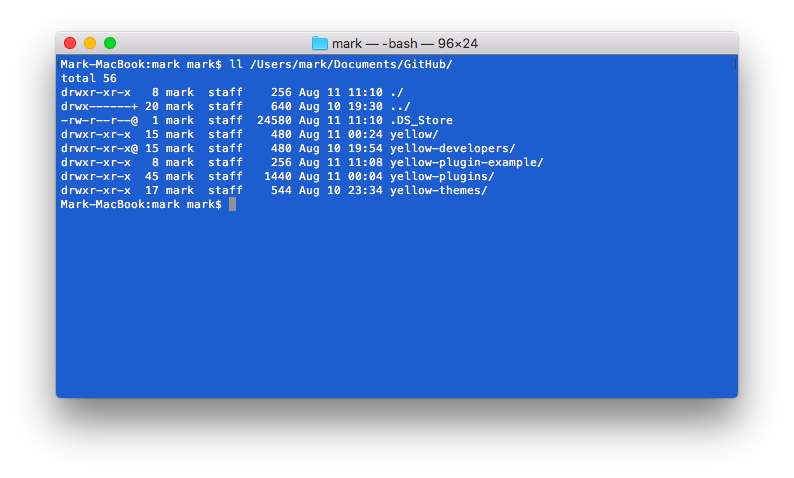
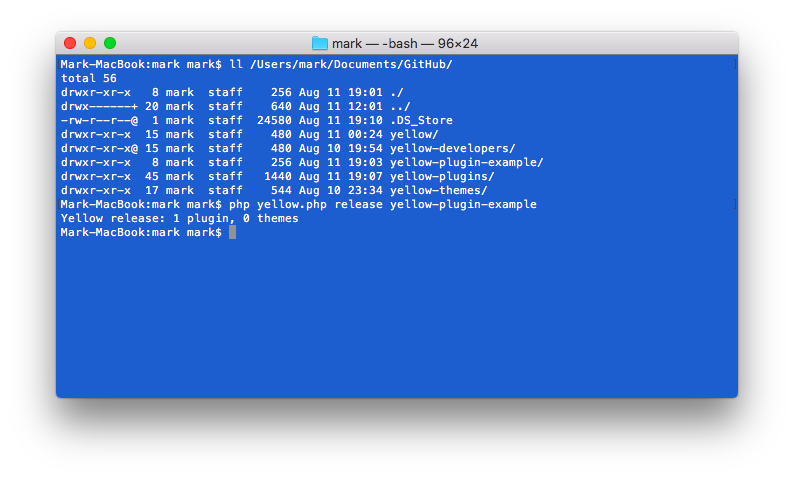
Updated release command, more feedback

Changed region(s): [[0.0605, 0.41, 0.6952, 0.4979], [0.4232, 0.1757, 0.4836, 0.2636], [0.4232, 0.3222, 0.4836, 0.3808]]

diff --git a/release/release.php b/release/release.php
@@ -4,8 +4,10 @@
 // This file may be used and distributed under the terms of the public license.
 
 class YellowRelease {
-    const VERSION = "0.7.12";
+    const VERSION = "0.7.13";
     public $yellow;         //access to API
+    public $plugins;        //number of plugins
+    public $themes;         //number of archives
 
     // Handle plugin initialisation
     public function onLoad($yellow) {
@@ -40,15 +42,18 @@ class YellowRelease {
         $pathThemes = rtrim($this->yellow->config->get("releaseThemesDir"), "/")."/";
         $path = rtrim((preg_match("/[\/\\\\]/", $path) ? $path : $pathSoftware.$path), "/")."/";
         if (is_dir($path)) {
+            $this->plugins = $this->themes = 0;
             $statusCode = max($statusCode, $this->updateSoftwareRepository($path, $pathPlugins, $pathThemes));
             foreach ($this->yellow->toolbox->getDirectoryEntries($path, "/.*/", true, true) as $entry) {
                 $statusCode = max($statusCode, $this->updateSoftwareRepository("$entry/", $pathPlugins, $pathThemes));
             }
         } else {
             $statusCode = 500;
+            $this->plugins = $this->themes = 0;
             echo "ERROR updating files: Can't find directory '$path'!\n";
         }
-        echo "Yellow $command: Release files ".($statusCode!=200 ? "not " : "")."updated\n";
+        echo "Yellow $command: $this->plugins plugin".($this->plugins!=1 ? "s" : "");
+        echo ", $this->themes theme".($this->themes!=1 ? "s" : "")."\n";
         return $statusCode;
     }
     
@@ -146,7 +151,7 @@ class YellowRelease {
         $fileNameInformation = $pathSource.$this->yellow->config->get("updateInformationFile");
         if (is_file($fileNameInformation) && !empty($software)) {
             $zip = new ZipArchive();
-            $softwareName = $this->getSoftwareName($software);
+            list($softwareName, $softwareType) = $this->getSoftwareInformation($software);
             $fileNameZipArchive = $pathDestination."zip/$softwareName.zip";
             if ($zip->open($fileNameZipArchive, ZIPARCHIVE::CREATE|ZIPARCHIVE::OVERWRITE)===true) {
                 $modified = 0;
@@ -167,6 +172,13 @@ class YellowRelease {
                 if (!$zip->close() || !$this->yellow->toolbox->modifyFile($fileNameZipArchive, $modified)) {
                     $statusCode = 500;
                     echo "ERROR updating files: Can't write file '$fileNameZipArchive'!\n";
+                }
+                if ($statusCode==200) {
+                    if ($softwareType=="plugin") {
+                         ++$this->plugins;
+                    } else {
+                        ++$this->themes;
+                    }
                 }
             } else {
                 $statusCode = 500;
@@ -195,9 +207,10 @@ class YellowRelease {
                 }
             }
             if (!$found) {
-                $softwareName = $this->getSoftwareName($software);
-                $fileDataNew .= "\n# Datenstrom Yellow version, new\n\n";
-                $fileDataNew .= "$software: $version,https://github.com/datenstrom/yellow-plugins/raw/master/zip/$softwareName.zip\n";
+                list($softwareName, $softwareType) = $this->getSoftwareInformation($software);
+                $url = "https://github.com/datenstrom/yellow-{$softwareType}s/raw/master/zip/$softwareName.zip";
+                $fileDataNew .= "\n# Datenstrom Yellow version, new $softwareType\n\n";
+                $fileDataNew .= "$software: $version,$url\n";
             }
             if ($fileData!=$fileDataNew) {
                 if (!$this->yellow->toolbox->createFile($fileNameVersion, $fileDataNew)) {
@@ -229,7 +242,8 @@ class YellowRelease {
                 }
             }
             if (!$found) {
-                $fileDataNew .= "\n# Datenstrom Yellow resource, new\n\n";
+                list($softwareName, $softwareType) = $this->getSoftwareInformation($software);
+                $fileDataNew .= "\n# Datenstrom Yellow resource, new $softwareType\n\n";
                 $fileDataNew .= $resource;
             }
             if ($fileData!=$fileDataNew) {
@@ -305,10 +319,11 @@ class YellowRelease {
     }
     
     // Return software name
-    public function getSoftwareName($software) {
+    public function getSoftwareInformation($software) {
         $softwareName = $this->yellow->lookup->normaliseName($software, true, false, true);
         $softwareName = preg_replace("/yellowtheme|yellow/", "", $softwareName);
-        return $softwareName;
+        $softwareType = preg_match("/^YellowTheme/", $software) ? "theme" : "plugin";
+        return array($softwareName, $softwareType);
     }
 }
 

diff --git a/release/README.md b/release/README.md
@@ -1,4 +1,4 @@
-Release plugin 0.7.12
+Release plugin 0.7.13
 ====================
 Create software releases.
 
